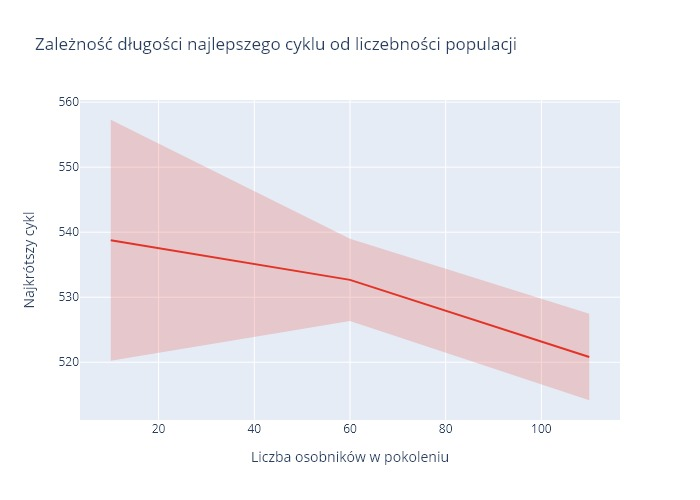
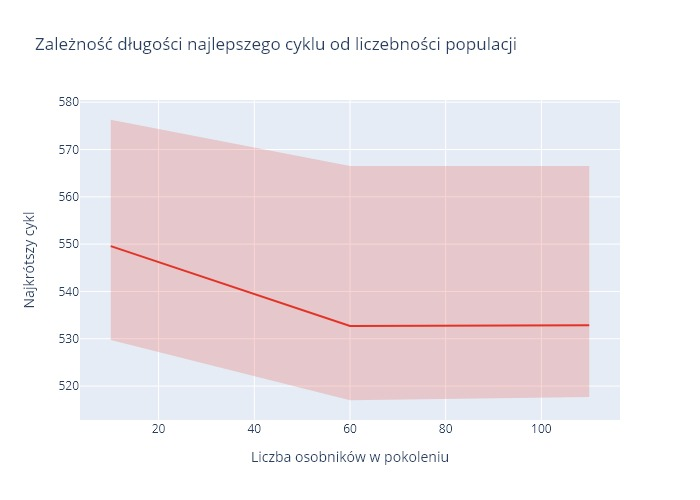
poprawki

diff --git a/main.py b/main.py
@@ -357,7 +357,7 @@ def genetic_operations(specimens, population_size, mutation_probability):
 def experiment(
     points,
     population_size=400,
-    elite_size_percent=0.3,
+    elite_size_percent=10,
     mutation_probability=0.7,
     tournament_size=3,
     iteration_count_end=100,
@@ -378,7 +378,7 @@ def experiment(
         oraz ilość generacji (z uwzględnieniem wszystkich generacji)
     '''
 
-    elite_size = int(population_size * elite_size_percent)
+    elite_size = int(population_size * elite_size_percent/100)
     
     specimen_length = len(points)
     symbolic_points_base, coordinates_list = transform_points_definition(points)
@@ -460,7 +460,7 @@ def investigate_population_size(start, end, step_arg, points):
         std_values[idx] = std(paths_values)
         min_values[idx] = min(paths_values)
         max_values[idx] = max(paths_values)
-        
+
         generations_mean[idx] = mean(generations)
         generations_values[idx] = std(generations)
 
@@ -565,7 +565,7 @@ def investigate_elitarism(start, end, step_arg, points):
         for expr in range(experiments_per_size):
             expr_result = experiment(points,
                                     # population_size=600,
-                                    elite_size=_elite_size)
+                                    elite_size_percent=_elite_size)
             paths_values[expr] = expr_result[0]
             generations[expr] = expr_result[3]
         
@@ -687,7 +687,7 @@ if __name__ == "__main__":
     # for c in najlepsze:
     #     print(c)
     
-    investigate_population_size(10, 111, 50, points)
+    investigate_population_size(10, 910, 100, points)
     # investigate_tournament_size(2, 10, 1, points)
-    # investigate_elitarism(30, 480, 30, points)
+    # investigate_elitarism(1, 100, 10, points)
     # investigate_mutation(0.1, 1.0, 0.1, points)
